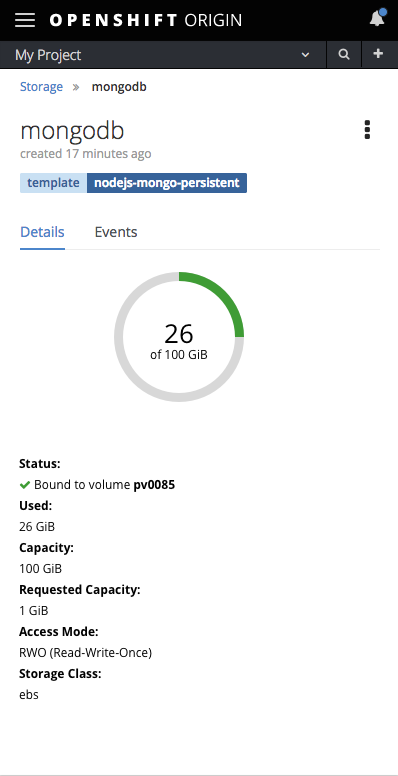
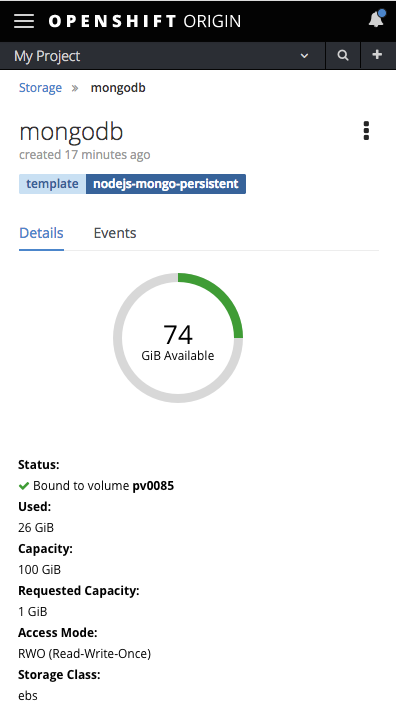
Changed tooltip text, updated mobile image.

diff --git a/web-console/project-details/storage-metrics.md b/web-console/project-details/storage-metrics.md
@@ -31,7 +31,7 @@
   - Gold (`#ec7a08`) between 75-89%
   - Red (`#cc0000`) >= 90%
 - The label in the center of the donut should give the capacity **available** in the format "x GiB Available", with the x value in large type.
-- Hovering on either the used or unused sections of the chart should give the amount used or available (as the case may be) in a tooltip.
+- Hovering on either the used or unused sections of the chart should give the amount used or available (as the case may be) in a tooltip. For example, "x of y GiB used."
 
 ### Mobile
 ![storage details mobile](img/storage-details-mobile.png)
